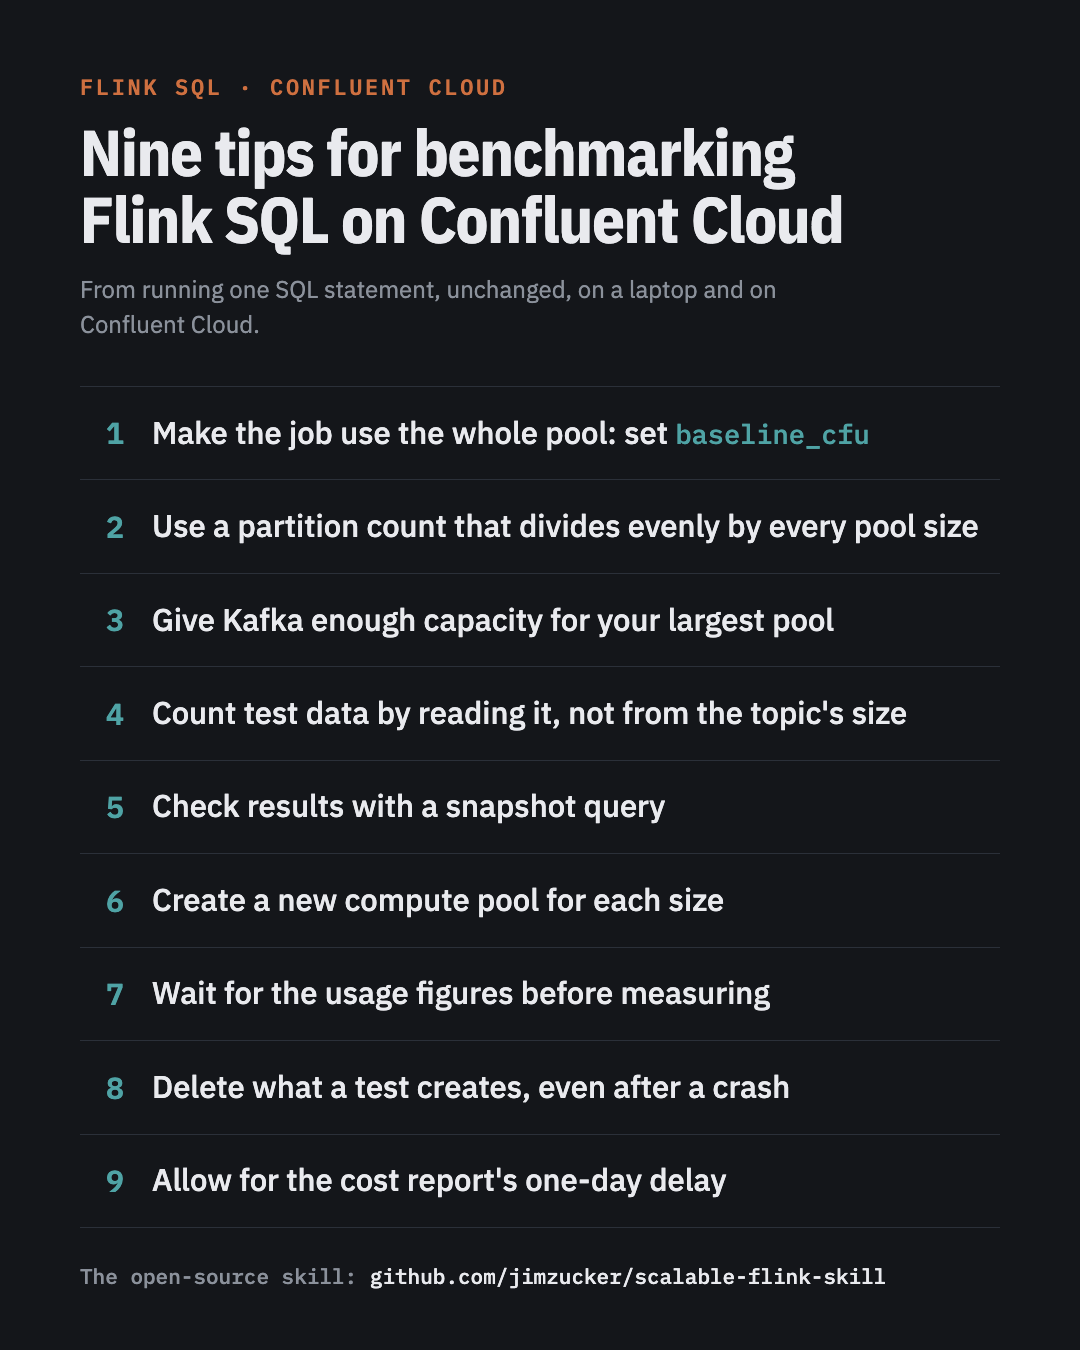
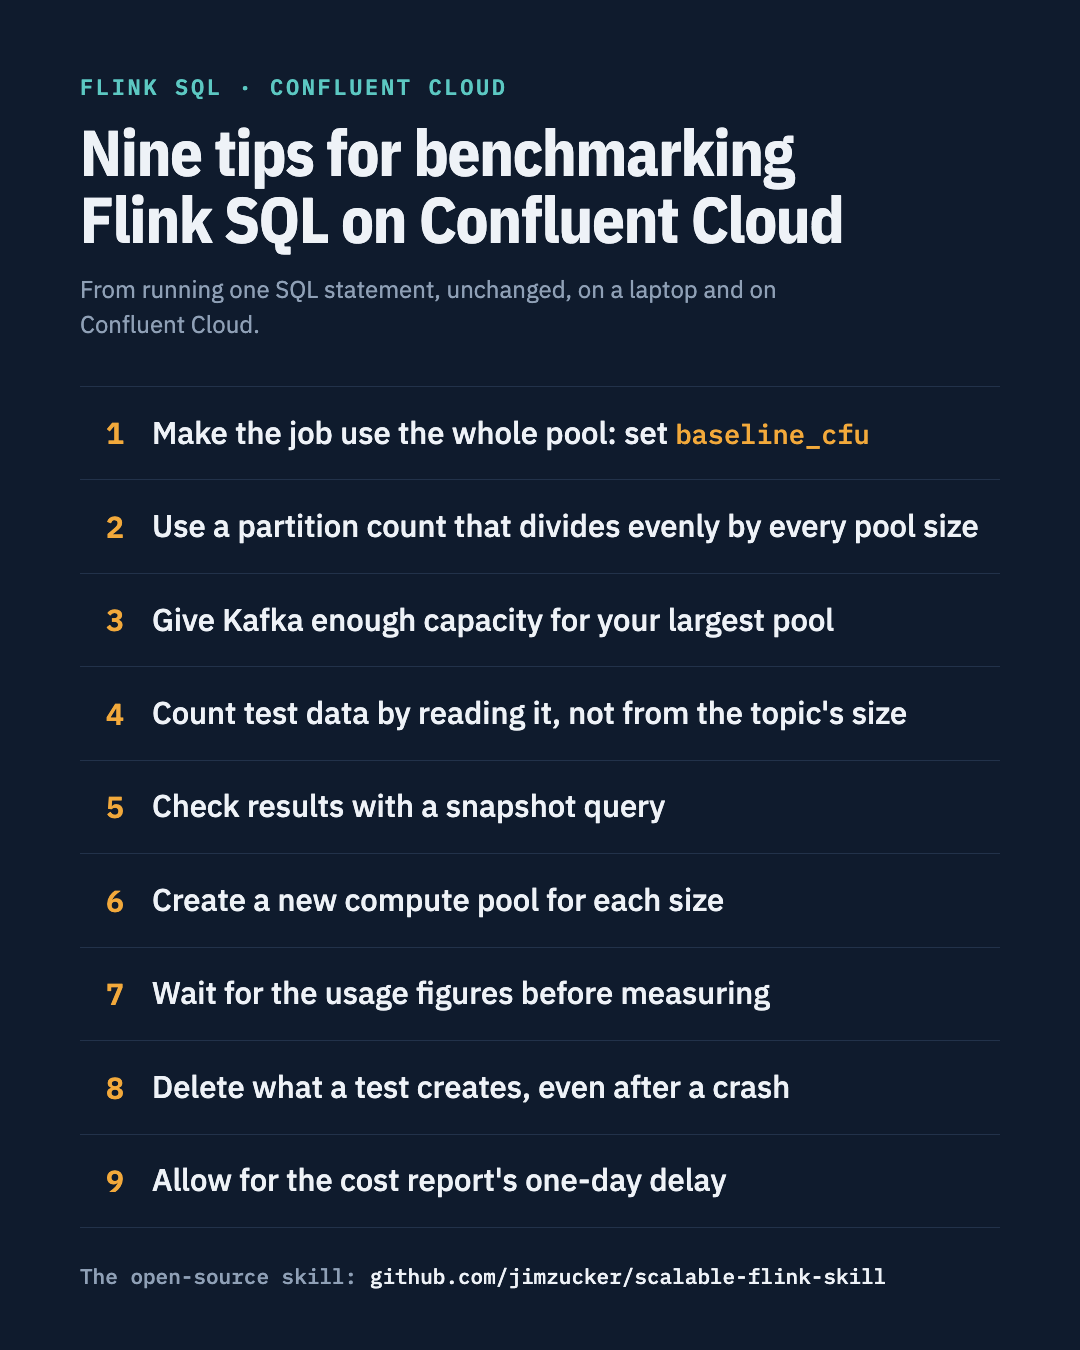
LinkedIn draft: the card in the navy scheme
The author chose option B: navy ground, amber numbers, teal label. The
rendered PNG is byte-identical to the preview the author picked.

Claude-Session: https://claude.ai/code/session_01AjkvqMLZHUt62am9UZupty

diff --git a/docs/linkedin/confluent-sql-tips-card.html b/docs/linkedin/confluent-sql-tips-card.html
@@ -4,12 +4,12 @@
 <link rel="stylesheet" href="https://fonts.googleapis.com/css2?family=IBM+Plex+Mono:wght@500;600&family=IBM+Plex+Sans+Condensed:wght@600;700&family=IBM+Plex+Sans:wght@400;500&display=swap">
 <style>
   :root{
-    --ground:#14161a;
-    --rule:#2b3039;
-    --ink:#e9eaee;
-    --muted:#8b919b;
-    --keep:#4fa3a5;
-    --warm:#cf7040;
+    --ground:#0f1b2d;
+    --rule:#22324a;
+    --ink:#eef2f7;
+    --muted:#8fa0b6;
+    --keep:#f2a93b;
+    --warm:#5cc8c2;
     --sans:"IBM Plex Sans","Helvetica Neue",Arial,sans-serif;
     --cond:"IBM Plex Sans Condensed","IBM Plex Sans","Helvetica Neue",Arial,sans-serif;
     --mono:"IBM Plex Mono",ui-monospace,"SFMono-Regular",Menlo,monospace;
